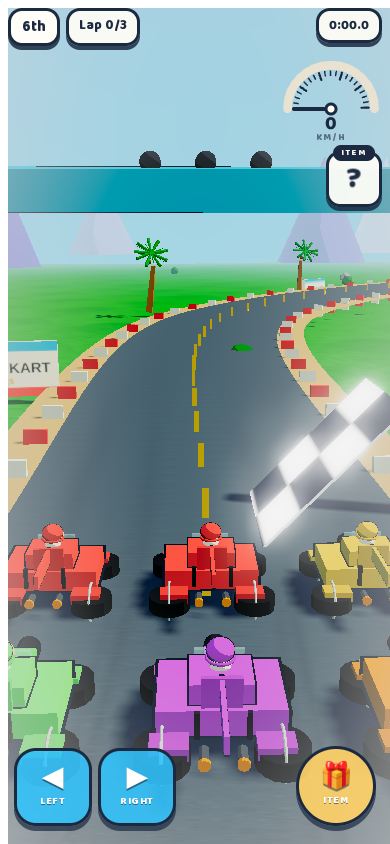
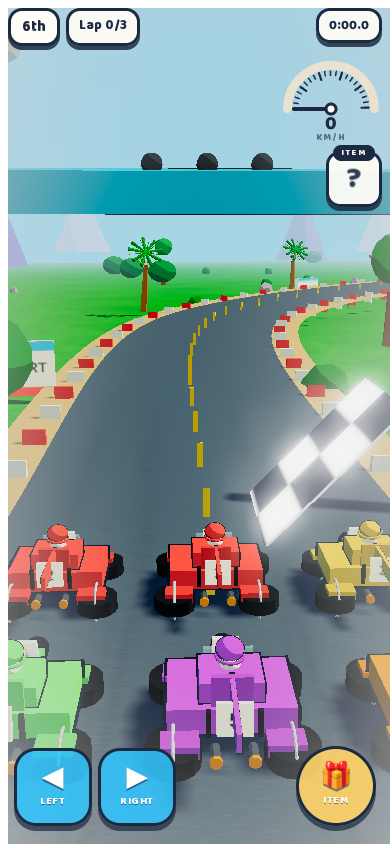
feat(visual): polish round 5 — cartoon forest, grandstands with awnings, distance posts, race numbers (front + rear plates)

diff --git a/src/track/Environment.js b/src/track/Environment.js
@@ -72,8 +72,11 @@ export class Environment {
 
     // --- palms & props ---------------------------------------------------
     this.buildPalms(scene);
+    this.buildForest(scene);
     this.buildProps(scene);
     this.buildCrowd(scene);
+    this.buildGrandstand(scene);
+    this.buildDistanceMarks(scene);
     this.buildFlags(scene);
     this.buildBalloons(scene);
   }
@@ -224,6 +227,55 @@ export class Environment {
       nut.position.set(0, 0.35, 0);
       top.add(nut);
     }
+  }
+
+  buildForest(scene) {
+    // Round cartoon trees (trunk + sphere canopy) in clusters — cheap density.
+    const trunkGeo = new THREE.CylinderGeometry(0.22, 0.3, 2.4, 7);
+    const trunkMat = toonMaterial(0x8a5a33, {});
+    const canopyGeo = new THREE.SphereGeometry(1.5, 9, 7);
+    const canopyMat = toonMaterial(0x2fa84f, {});
+    const canopyMatDark = toonMaterial(0x279142, {});
+
+    const trunks = new THREE.InstancedMesh(trunkGeo, trunkMat, 44);
+    const canopies = new THREE.InstancedMesh(canopyGeo, canopyMat, 44);
+    const dummy = new THREE.Object3D();
+    for (let i = 0; i < 44; i++) {
+      const a = Math.random() * Math.PI * 2;
+      const r = 34 + Math.random() * 150;
+      const x = Math.cos(a) * r;
+      const z = Math.sin(a) * r;
+      const h = smoothH(x, z) * 0.5 - 0.5;
+      const s = 0.8 + Math.random() * 0.9;
+      dummy.position.set(x, h + 1.2 * s, z);
+      dummy.scale.setScalar(s);
+      dummy.updateMatrix();
+      trunks.setMatrixAt(i, dummy.matrix);
+      dummy.position.set(x, h + (2.4 + 1.4) * s, z);
+      dummy.scale.set(1, 0.85 + Math.random() * 0.3, 1);
+      dummy.updateMatrix();
+      canopies.setMatrixAt(i, dummy.matrix);
+    }
+    trunks.instanceMatrix.needsUpdate = true;
+    canopies.instanceMatrix.needsUpdate = true;
+    scene.add(trunks);
+    scene.add(canopies);
+
+    // Second, smaller darker canopy layer for depth variation.
+    const canopies2 = new THREE.InstancedMesh(canopyGeo, canopyMatDark, 30);
+    for (let i = 0; i < 30; i++) {
+      const a = Math.random() * Math.PI * 2;
+      const r = 60 + Math.random() * 140;
+      const x = Math.cos(a) * r;
+      const z = Math.sin(a) * r;
+      const h = smoothH(x, z) * 0.5 - 0.5;
+      dummy.position.set(x, h + 2.2, z);
+      dummy.scale.set(1.4 + Math.random() * 0.8, 1.2, 1.4 + Math.random() * 0.8);
+      dummy.updateMatrix();
+      canopies2.setMatrixAt(i, dummy.matrix);
+    }
+    canopies2.instanceMatrix.needsUpdate = true;
+    scene.add(canopies2);
   }
 
   buildProps(scene) {
@@ -400,6 +452,100 @@ export class Environment {
       im.instanceMatrix.needsUpdate = true;
       if (im.instanceColor) im.instanceColor.needsUpdate = true;
       scene.add(im);
+    }
+  }
+
+  buildGrandstand(scene) {
+    // Big grandstand with striped awning near a curve — crowd anchor.
+    const grandstandSpots = [
+      { x: -8, z: -66, ry: -0.3 },
+      { x: 50, z: 44, ry: 2.2 },
+    ];
+    const crowdColors = [0xff5a5f, 0xffd166, 0x6cff8f, 0x2ec4ff, 0xc86bff, 0xff9f45, 0xffffff];
+    for (const gs of grandstandSpots) {
+      const grp = new THREE.Group();
+      // steps (3 tiers)
+      const stepMat = toonMaterial(0xdfe6ee, {});
+      const tier = new THREE.InstancedMesh(new THREE.BoxGeometry(16, 0.8, 2.4), stepMat, 3);
+      const dummy = new THREE.Object3D();
+      for (let i = 0; i < 3; i++) {
+        dummy.position.set(0, 1.0 + i * 1.1, -i * 2.2);
+        dummy.updateMatrix();
+        tier.setMatrixAt(i, dummy.matrix);
+      }
+      tier.instanceMatrix.needsUpdate = true;
+      grp.add(tier);
+      // spectators on each tier (instanced colorful boxes)
+      const spec = new THREE.InstancedMesh(new THREE.BoxGeometry(0.7, 0.9, 0.7), toonMaterial(0xffffff, {}), 36);
+      const col = new THREE.Color();
+      let sIdx = 0;
+      for (let i = 0; i < 3; i++) {
+        for (let j = 0; j < 12; j++) {
+          dummy.position.set(-8.2 + j * 1.4, 1.6 + i * 1.1, -i * 2.2 + 0.3);
+          dummy.scale.set(1, 0.9 + Math.random() * 0.4, 1);
+          dummy.updateMatrix();
+          spec.setMatrixAt(sIdx, dummy.matrix);
+          col.setHex(crowdColors[Math.floor(Math.random() * crowdColors.length)]);
+          spec.setColorAt(sIdx, col);
+          sIdx++;
+        }
+      }
+      spec.instanceMatrix.needsUpdate = true;
+      if (spec.instanceColor) spec.instanceColor.needsUpdate = true;
+      grp.add(spec);
+      // striped awning
+      const awning = new THREE.Mesh(
+        new THREE.BoxGeometry(18, 0.25, 5.4),
+        toonMaterial(0xff5a5f, {})
+      );
+      awning.position.set(0, 4.4, -3.2);
+      awning.rotation.x = 0.16;
+      grp.add(awning);
+      // awning stripes (white bars)
+      const barGeo = new THREE.BoxGeometry(1.1, 0.3, 5.5);
+      const barMat = toonMaterial(0xffffff, {});
+      for (let i = -7; i <= 7; i += 2) {
+        const bar = new THREE.Mesh(barGeo, barMat);
+        bar.position.set(i * 1.1, 4.42, -3.2);
+        bar.rotation.x = 0.16;
+        grp.add(bar);
+      }
+      // support posts
+      const postGeo = new THREE.CylinderGeometry(0.14, 0.14, 4.4, 6);
+      const postMat = toonMaterial(0x8b7a5c, {});
+      for (const side of [-1, 1]) {
+        const post = new THREE.Mesh(postGeo, postMat);
+        post.position.set(side * 8, 2.2, -3.4);
+        grp.add(post);
+      }
+      grp.position.set(gs.x, smoothH(gs.x, gs.z) * 0.5 - 0.5, gs.z);
+      grp.rotation.y = gs.ry;
+      scene.add(grp);
+    }
+  }
+
+  buildDistanceMarks(scene) {
+    // 100m/200m distance posts along the far stretches (cheap racing flavor).
+    const marks = [
+      { x: -30, z: -52, ry: 0.5 },
+      { x: 30, z: -60, ry: -0.4 },
+      { x: 62, z: -20, ry: 1.5 },
+      { x: 46, z: 56, ry: 2.0 },
+      { x: -40, z: 52, ry: -2.0 },
+    ];
+    const postMat = toonMaterial(0x8b7a5c, {});
+    for (const m of marks) {
+      const post = new THREE.Mesh(new THREE.CylinderGeometry(0.09, 0.11, 1.6, 6), postMat);
+      post.position.set(m.x, smoothH(m.x, m.z) * 0.5 - 0.5 + 0.8, m.z);
+      post.rotation.y = m.ry;
+      scene.add(post);
+      const board = new THREE.Mesh(
+        new THREE.BoxGeometry(0.9, 0.5, 0.08),
+        toonMaterial(0xffd166, {})
+      );
+      board.position.set(m.x, smoothH(m.x, m.z) * 0.5 - 0.5 + 1.35, m.z);
+      board.rotation.y = m.ry;
+      scene.add(board);
     }
   }
 

diff --git a/src/entities/Kart.js b/src/entities/Kart.js
@@ -25,8 +25,9 @@ export class Kart {
    * @param {THREE.Vector3} opts.startPosition
    * @param {number} opts.startHeading  — radians
    */
-  constructor({ color = 0xff5a5f, isPlayer = false, startPosition, startHeading = 0 }) {
+  constructor({ color = 0xff5a5f, isPlayer = false, number = 1, startPosition, startHeading = 0 }) {
     this.isPlayer = isPlayer;
+    this.number = number;
     this.group = new THREE.Group();
     this.group.name = isPlayer ? 'kart-player' : 'kart-ai';
 
@@ -219,6 +220,39 @@ export class Kart {
     this._outline(cockpit);
     this._mesh(new THREE.BoxGeometry(0.64, 0.2, 0.04), glass, 0, 1.04, 0.3, { rx: -0.28, cast: false });
     this._mesh(new THREE.BoxGeometry(0.5, 0.44, 0.07), bodyDark, 0, 0.98, -0.44);
+
+    // Race number plate on the nose (kart identity).
+    const numCanvas = document.createElement('canvas');
+    numCanvas.width = 128;
+    numCanvas.height = 128;
+    const nctx = numCanvas.getContext('2d');
+    nctx.fillStyle = '#ffffff';
+    nctx.fillRect(0, 0, 128, 128);
+    nctx.fillStyle = '#1b2a41';
+    nctx.font = 'bold 80px sans-serif';
+    nctx.textAlign = 'center';
+    nctx.textBaseline = 'middle';
+    nctx.fillText(String(this.number), 64, 68);
+    const numTex = new THREE.CanvasTexture(numCanvas);
+    numTex.colorSpace = THREE.SRGBColorSpace;
+    const plate = new THREE.Mesh(
+      new THREE.BoxGeometry(0.36, 0.36, 0.07),
+      new THREE.MeshToonMaterial({ color: 0xffffff })
+    );
+    plate.material.map = numTex;
+    plate.position.set(0, KC.wheelRadius + 0.5, 0.72);
+    plate.rotation.x = -0.2;
+    this.group.add(plate);
+
+    // Rear number plate (visible from the chase camera).
+    const plateBack = new THREE.Mesh(
+      new THREE.BoxGeometry(0.42, 0.4, 0.06),
+      new THREE.MeshToonMaterial({ color: 0xffffff })
+    );
+    plateBack.material.map = numTex;
+    plateBack.position.set(0, KC.wheelRadius + 0.62, -0.9);
+    plateBack.rotation.x = 0.12;
+    this.group.add(plateBack);
 
     // hood racing stripes
     this._mesh(new THREE.BoxGeometry(0.05, 0.03, 0.7), white, -0.17, 0.835, 0.12, { cast: false });

diff --git a/src/main.js b/src/main.js
@@ -92,6 +92,7 @@ function buildKarts() {
   playerKart = new Kart({
     color: playerColor,
     isPlayer: true,
+    number: 1,
     startPosition: playerPos.position,
     startHeading: playerPos.heading,
   });
@@ -99,6 +100,7 @@ function buildKarts() {
 
   aiKarts = [];
   aiControllers = [];
+  let aiNum = 2;
   for (let i = 0; i < CONFIG.game.numKarts; i++) {
     if (!DEMO && i === playerSlot) continue;
     if (DEMO && i === 1) continue; // slot 1 reserved for player visual
@@ -106,6 +108,7 @@ function buildKarts() {
     const kart = new Kart({
       color: colors[i],
       isPlayer: false,
+      number: aiNum++,
       startPosition: slot.position,
       startHeading: slot.heading,
     });
